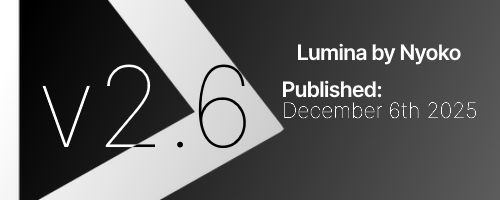
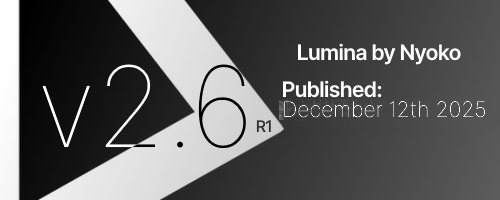
v2.6R1 XML file

Changed region(s): [[0.54, 0.51, 0.96, 0.6], [0.51, 0.6, 0.54, 0.66]]

diff --git a/XML/GlobalPaths.cs b/XML/GlobalPaths.cs
@@ -96,7 +96,7 @@ namespace Lumina.XML
                 }
                 else
                 {
-                    return "v2.6";
+                    return "v2.6R1";
                 }
             }
 
@@ -124,7 +124,7 @@ namespace Lumina.XML
         /// <summary>
         /// SupportedGameVersion, returns the supported game version.
         /// </summary>
-        public static string SupportedGameVersion = "1.5.2f1 (1431.37432) [6020.36387]";
+        public static string SupportedGameVersion = "1.5.3f1 (1434.37436) [6030.4046]";
 
         /// <summary>
         /// Returns icon path for toast notifications.
